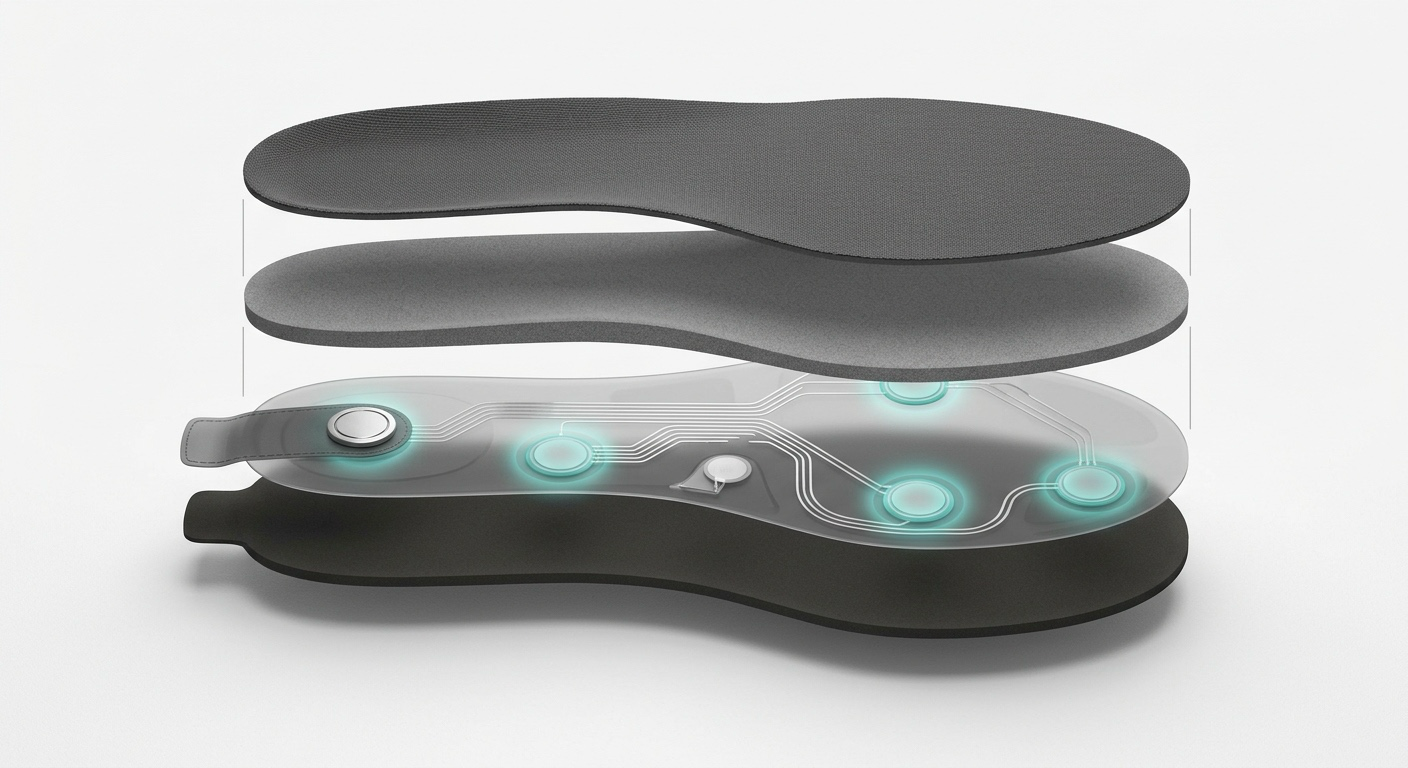
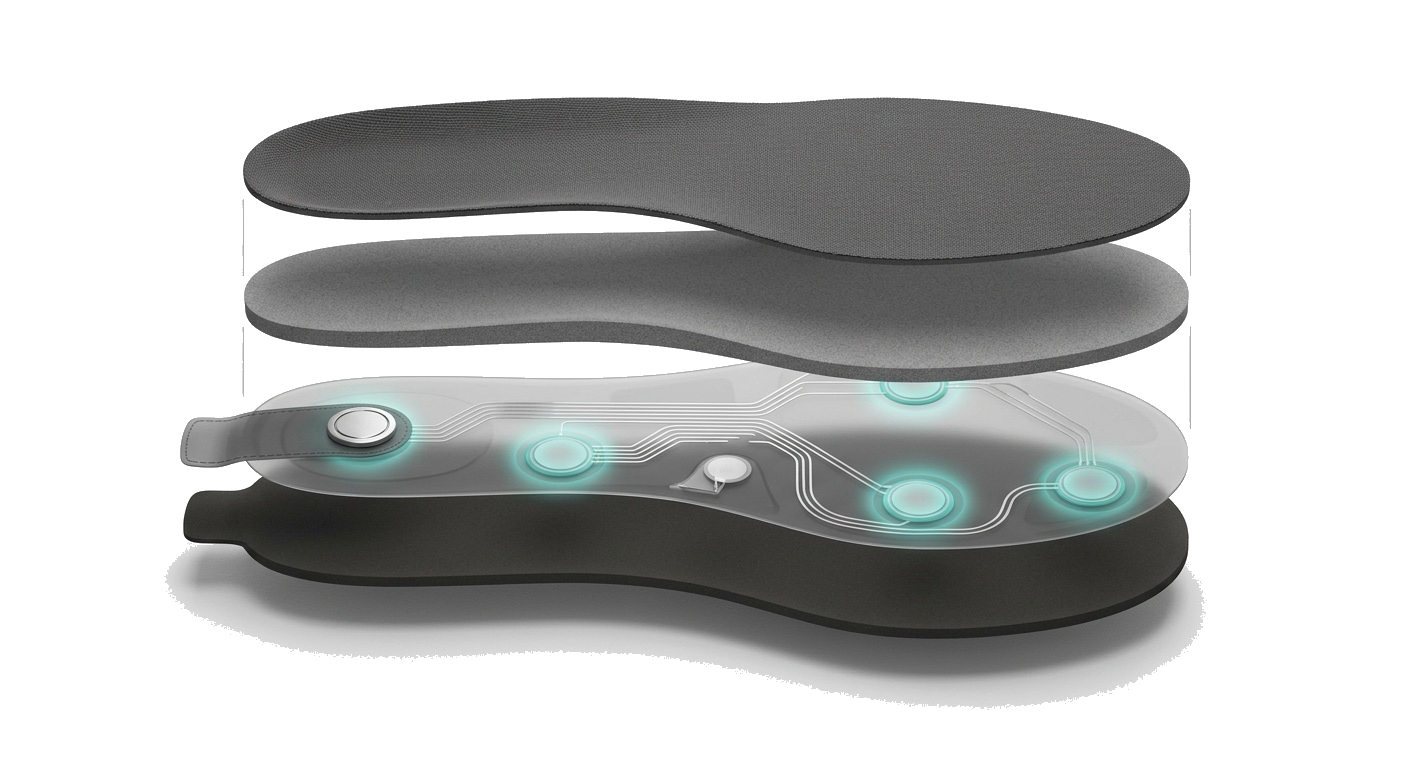
Rebuild the pad-components diagram with a real, transparent, properly-sized photo (#35)
* Fix roadmap start year from 2024 to 2026

The actual prototype development kicked off in January 2026, not 2024.

Claude-Session: https://claude.ai/code/session_01LzeDYVsrJmQPBjXcuMVsJb

* Fix clunky device-frame bezel on mobile hero section

Replace the thick dark laptop-style bezel around the product image with
a simple white card on mobile, matching the rest of the site's aesthetic.

Claude-Session: https://claude.ai/code/session_01LzeDYVsrJmQPBjXcuMVsJb

* Fix credibility, accuracy and cross-browser bugs on the public site

- Fix AnimatedCounter getting permanently stuck at 0: it only depended on
  framer-motion's useInView with a negative margin, which can miss the
  initial intersection callback in some browsers (especially inside
  overflow-hidden ancestors). Now uses a direct IntersectionObserver plus
  a getBoundingClientRect fallback for elements already visible on mount.
- Tone down the battery self-charging claims (IntroducingDithar,
  SmartInsoleExplodedView): the device still needs external charging:
  piezoelectric harvesting extends battery life, it doesn't replace charging.
- Remove false regulatory certification claims from the tech marquee
  (FDA-Class II, ISO 13485) and fix the stale 14-zone sensor count to 9,
  and unify BLE version to 5.2 everywhere (was inconsistently 5.0/5.2).
- Label unvalidated AI performance figures (97.8% accuracy, 92% stability,
  1.2s alert speed) as pre-clinical-validation targets instead of implying
[…]

Changed region(s): [[0.0938, 0.6875, 0.9062, 0.9688]]

diff --git a/src/components/sections/PadDiagram.tsx b/src/components/sections/PadDiagram.tsx
@@ -1,0 +1,135 @@
+"use client";
+
+import Image from "next/image";
+import { motion } from "framer-motion";
+
+type Callout = {
+  id: string;
+  titleAr: string;
+  descAr: string;
+  x: number; // % position on the photo
+  y: number;
+  side: "left" | "right";
+};
+
+const CALLOUTS: Callout[] = [
+  // Right side, top to bottom
+  { id: "top", titleAr: "الطبقة العلوية", descAr: "قماش مسامي مضاد للبكتيريا", x: 50, y: 12, side: "right" },
+  { id: "comfort", titleAr: "طبقة الراحة", descAr: "إسفنج EVA يوزّع الضغط على القدم", x: 50, y: 29, side: "right" },
+  { id: "traces", titleAr: "مسارات التوصيل", descAr: "خطوط موصلة مطبوعة بين الحساسات", x: 58, y: 40, side: "right" },
+  { id: "sensors", titleAr: "حساسات الضغط", descAr: "أربعة حساسات رقيقة (الدوائر المضيئة) — جُرّبت بأحمال 5–25 كغم", x: 65, y: 43, side: "right" },
+  { id: "substrate", titleAr: "شريحة الحساسات", descAr: "طبقة مرنة شفافة تحمل الدوائر", x: 73, y: 46, side: "right" },
+  { id: "base", titleAr: "القاعدة", descAr: "طبقة EVA مرنة وخفيفة", x: 50, y: 85, side: "right" },
+  // Left side, top to bottom
+  { id: "magnet", titleAr: "نقطة التوصيل المغناطيسي", descAr: "تثبت عليها الكبسولة", x: 29, y: 46, side: "left" },
+  { id: "tab", titleAr: "لسان التوصيل", descAr: "عند الكعب من الجهة الخارجية", x: 22, y: 47, side: "left" },
+  { id: "nfc", titleAr: "رقاقة NFC", descAr: "تعرّف الكبسولة بنوع الحذاء", x: 38, y: 52, side: "left" },
+];
+
+export default function PadDiagram() {
+  return (
+    <section className="relative w-full py-20 px-4 sm:px-6 lg:px-12 bg-transparent overflow-hidden font-sans">
+      <div className="max-w-6xl mx-auto">
+        <div className="relative rounded-[2rem] border border-slate-200/70 bg-white/70 backdrop-blur-sm shadow-[0_20px_60px_rgba(15,23,42,0.06)] p-6 sm:p-10">
+          <div className="mb-2" dir="rtl">
+            <h2 className="text-xl sm:text-2xl font-bold text-slate-900 font-arabic">مكوّنات لباد دِثار</h2>
+          </div>
+
+          {/* Desktop: real photo with leader-line callouts on both sides */}
+          <div className="hidden lg:grid grid-cols-[260px_1fr_260px] gap-4 items-center mt-8">
+            {/* Left labels */}
+            <div className="flex flex-col gap-10 items-end pr-2" dir="rtl">
+              {CALLOUTS.filter((c) => c.side === "left").map((c) => (
+                <motion.div
+                  key={c.id}
+                  initial={{ opacity: 0, x: -10 }}
+                  whileInView={{ opacity: 1, x: 0 }}
+                  viewport={{ once: true, margin: "-40px" }}
+                  transition={{ duration: 0.4 }}
+                  className="relative text-right"
+                >
+                  <p className="text-sm font-bold text-slate-900 font-arabic">{c.titleAr}</p>
+                  <p className="text-xs text-slate-500 font-arabic leading-snug mt-0.5">{c.descAr}</p>
+                  <span className="absolute top-2 -left-6 w-5 border-t border-teal-600/60" />
+                  <span className="absolute top-2 -left-6.5 w-1.5 h-1.5 rounded-full bg-teal-600 -translate-x-full" />
+                </motion.div>
+              ))}
+            </div>
+
+            {/* Photo — kept small: the pad itself is thin (2.8mm), the gaps here are only to separate the layers visually */}
+            <div className="flex flex-col items-center">
+              <div className="relative w-full max-w-md aspect-[1408/768]">
+                <Image
+                  src="/pad-exploded-layers.png"
+                  alt="Dithar pad — exploded layers"
+                  fill
+                  className="object-contain drop-shadow-lg rounded-2xl"
+                />
+                {CALLOUTS.map((c) => (
+                  <span
+                    key={c.id}
+                    className="absolute w-1.5 h-1.5 rounded-full bg-teal-600 ring-3 ring-teal-600/20 -translate-x-1/2 -translate-y-1/2"
+                    style={{ left: `${c.x}%`, top: `${c.y}%` }}
+                  />
+                ))}
+              </div>
+              <p className="mt-3 text-[11px] text-slate-400 font-arabic text-center max-w-55">
+                الطبقات مفصولة هنا للتوضيح فقط — سماكة اللبادة الفعلية 2.8 مم، أرق من بطاقة ائتمان.
+              </p>
+            </div>
+
+            {/* Right labels */}
+            <div className="flex flex-col gap-6 items-start pl-2" dir="rtl">
+              {CALLOUTS.filter((c) => c.side === "right").map((c) => (
+                <motion.div
+                  key={c.id}
+                  initial={{ opacity: 0, x: 10 }}
+                  whileInView={{ opacity: 1, x: 0 }}
+                  viewport={{ once: true, margin: "-40px" }}
+                  transition={{ duration: 0.4 }}
+                  className="relative text-right"
+                >
+                  <p className="text-sm font-bold text-slate-900 font-arabic">{c.titleAr}</p>
+                  <p className="text-xs text-slate-500 font-arabic leading-snug mt-0.5">{c.descAr}</p>
+                  <span className="absolute top-2 -right-6 w-5 border-t border-teal-600/60" />
+                  <span className="absolute top-2 -right-6.5 w-1.5 h-1.5 rounded-full bg-teal-600 translate-x-full" />
+                </motion.div>
+              ))}
+            </div>
+          </div>
+
+          {/* Mobile: photo + stacked list */}
+          <div className="lg:hidden mt-6 flex flex-col items-center">
+            <div className="relative w-full max-w-md aspect-[1408/768]">
+              <Image
+                src="/pad-exploded-layers.png"
+                alt="Dithar pad — exploded layers"
+                fill
+                className="object-contain drop-shadow-lg rounded-2xl"
+              />
+            </div>
+            <p className="mt-3 text-[11px] text-slate-400 font-arabic text-center max-w-55">
+              الطبقات مفصولة هنا للتوضيح فقط — سماكة اللبادة الفعلية 2.8 مم، أرق من بطاقة ائتمان.
+            </p>
+            <div className="mt-6 w-full grid grid-cols-1 sm:grid-cols-2 gap-3" dir="rtl">
+              {CALLOUTS.map((c) => (
+                <div key={c.id} className="p-3 rounded-xl bg-slate-50 border border-slate-100 flex items-start gap-2.5 text-right">
+                  <span className="w-2 h-2 rounded-full bg-teal-500 mt-1.5 shrink-0" />
+                  <div>
+                    <p className="text-xs font-bold text-slate-900 font-arabic">{c.titleAr}</p>
+                    <p className="text-[11px] text-slate-500 font-arabic leading-snug mt-0.5">{c.descAr}</p>
+                  </div>
+                </div>
+              ))}
+            </div>
+          </div>
+
+          {/* Brand mark */}
+          <div className="flex justify-end mt-6 pr-2" dir="ltr">
+            <span className="text-[11px] font-bold text-slate-400 font-arabic">دِثار · Dithar</span>
+          </div>
+        </div>
+      </div>
+    </section>
+  );
+}

diff --git a/src/app/page.tsx b/src/app/page.tsx
@@ -18,9 +18,8 @@ import {
 import { ScrollProgress } from "@/components/ui/scroll-progress";
 
 // Dynamically import heavy interactive sections for performance
-const SmartInsoleExplodedView = dynamic(() => import("@/components/sections/SmartInsoleExplodedView"), {
+const PadDiagram = dynamic(() => import("@/components/sections/PadDiagram"), {
   ssr: true,
-  loading: () => <div className="w-full min-h-[400px] flex items-center justify-center text-slate-400 font-arabic text-sm">جاري تحميل العرض التفكيكي...</div>
 });
 
 const CapsuleExplodedView = dynamic(() => import("@/components/sections/CapsuleExplodedView"), {
@@ -58,8 +57,8 @@ export default function Home() {
         <IntroducingDithar />
         {/* 3b. Device Technical Specifications */}
         <DeviceSpecs />
-        {/* 4. Exploded Product Experience */}
-        <SmartInsoleExplodedView />
+        {/* 4. Pad Components Diagram */}
+        <PadDiagram />
         {/* 4b. Capsule Exploded Experience */}
         <CapsuleExplodedView />
         {/* 5. How Dithar Works */}

diff --git a/src/components/sections/index.ts b/src/components/sections/index.ts
@@ -4,8 +4,8 @@ export { default as FounderStory } from "./FounderStory";
 export { default as IntroducingDithar } from "./IntroducingDithar";
 export { default as DeviceSpecs } from "./DeviceSpecs";
 export { default as AiEngine } from "./AiEngine";
-export { default as SmartInsoleExplodedView } from "./SmartInsoleExplodedView";
 export { default as CapsuleExplodedView } from "./CapsuleExplodedView";
+export { default as PadDiagram } from "./PadDiagram";
 export { default as HowItWorks } from "./HowItWorks";
 export { default as DigitalTwin } from "./DigitalTwin";
 export { default as PlatformDashboard } from "./PlatformDashboard";
